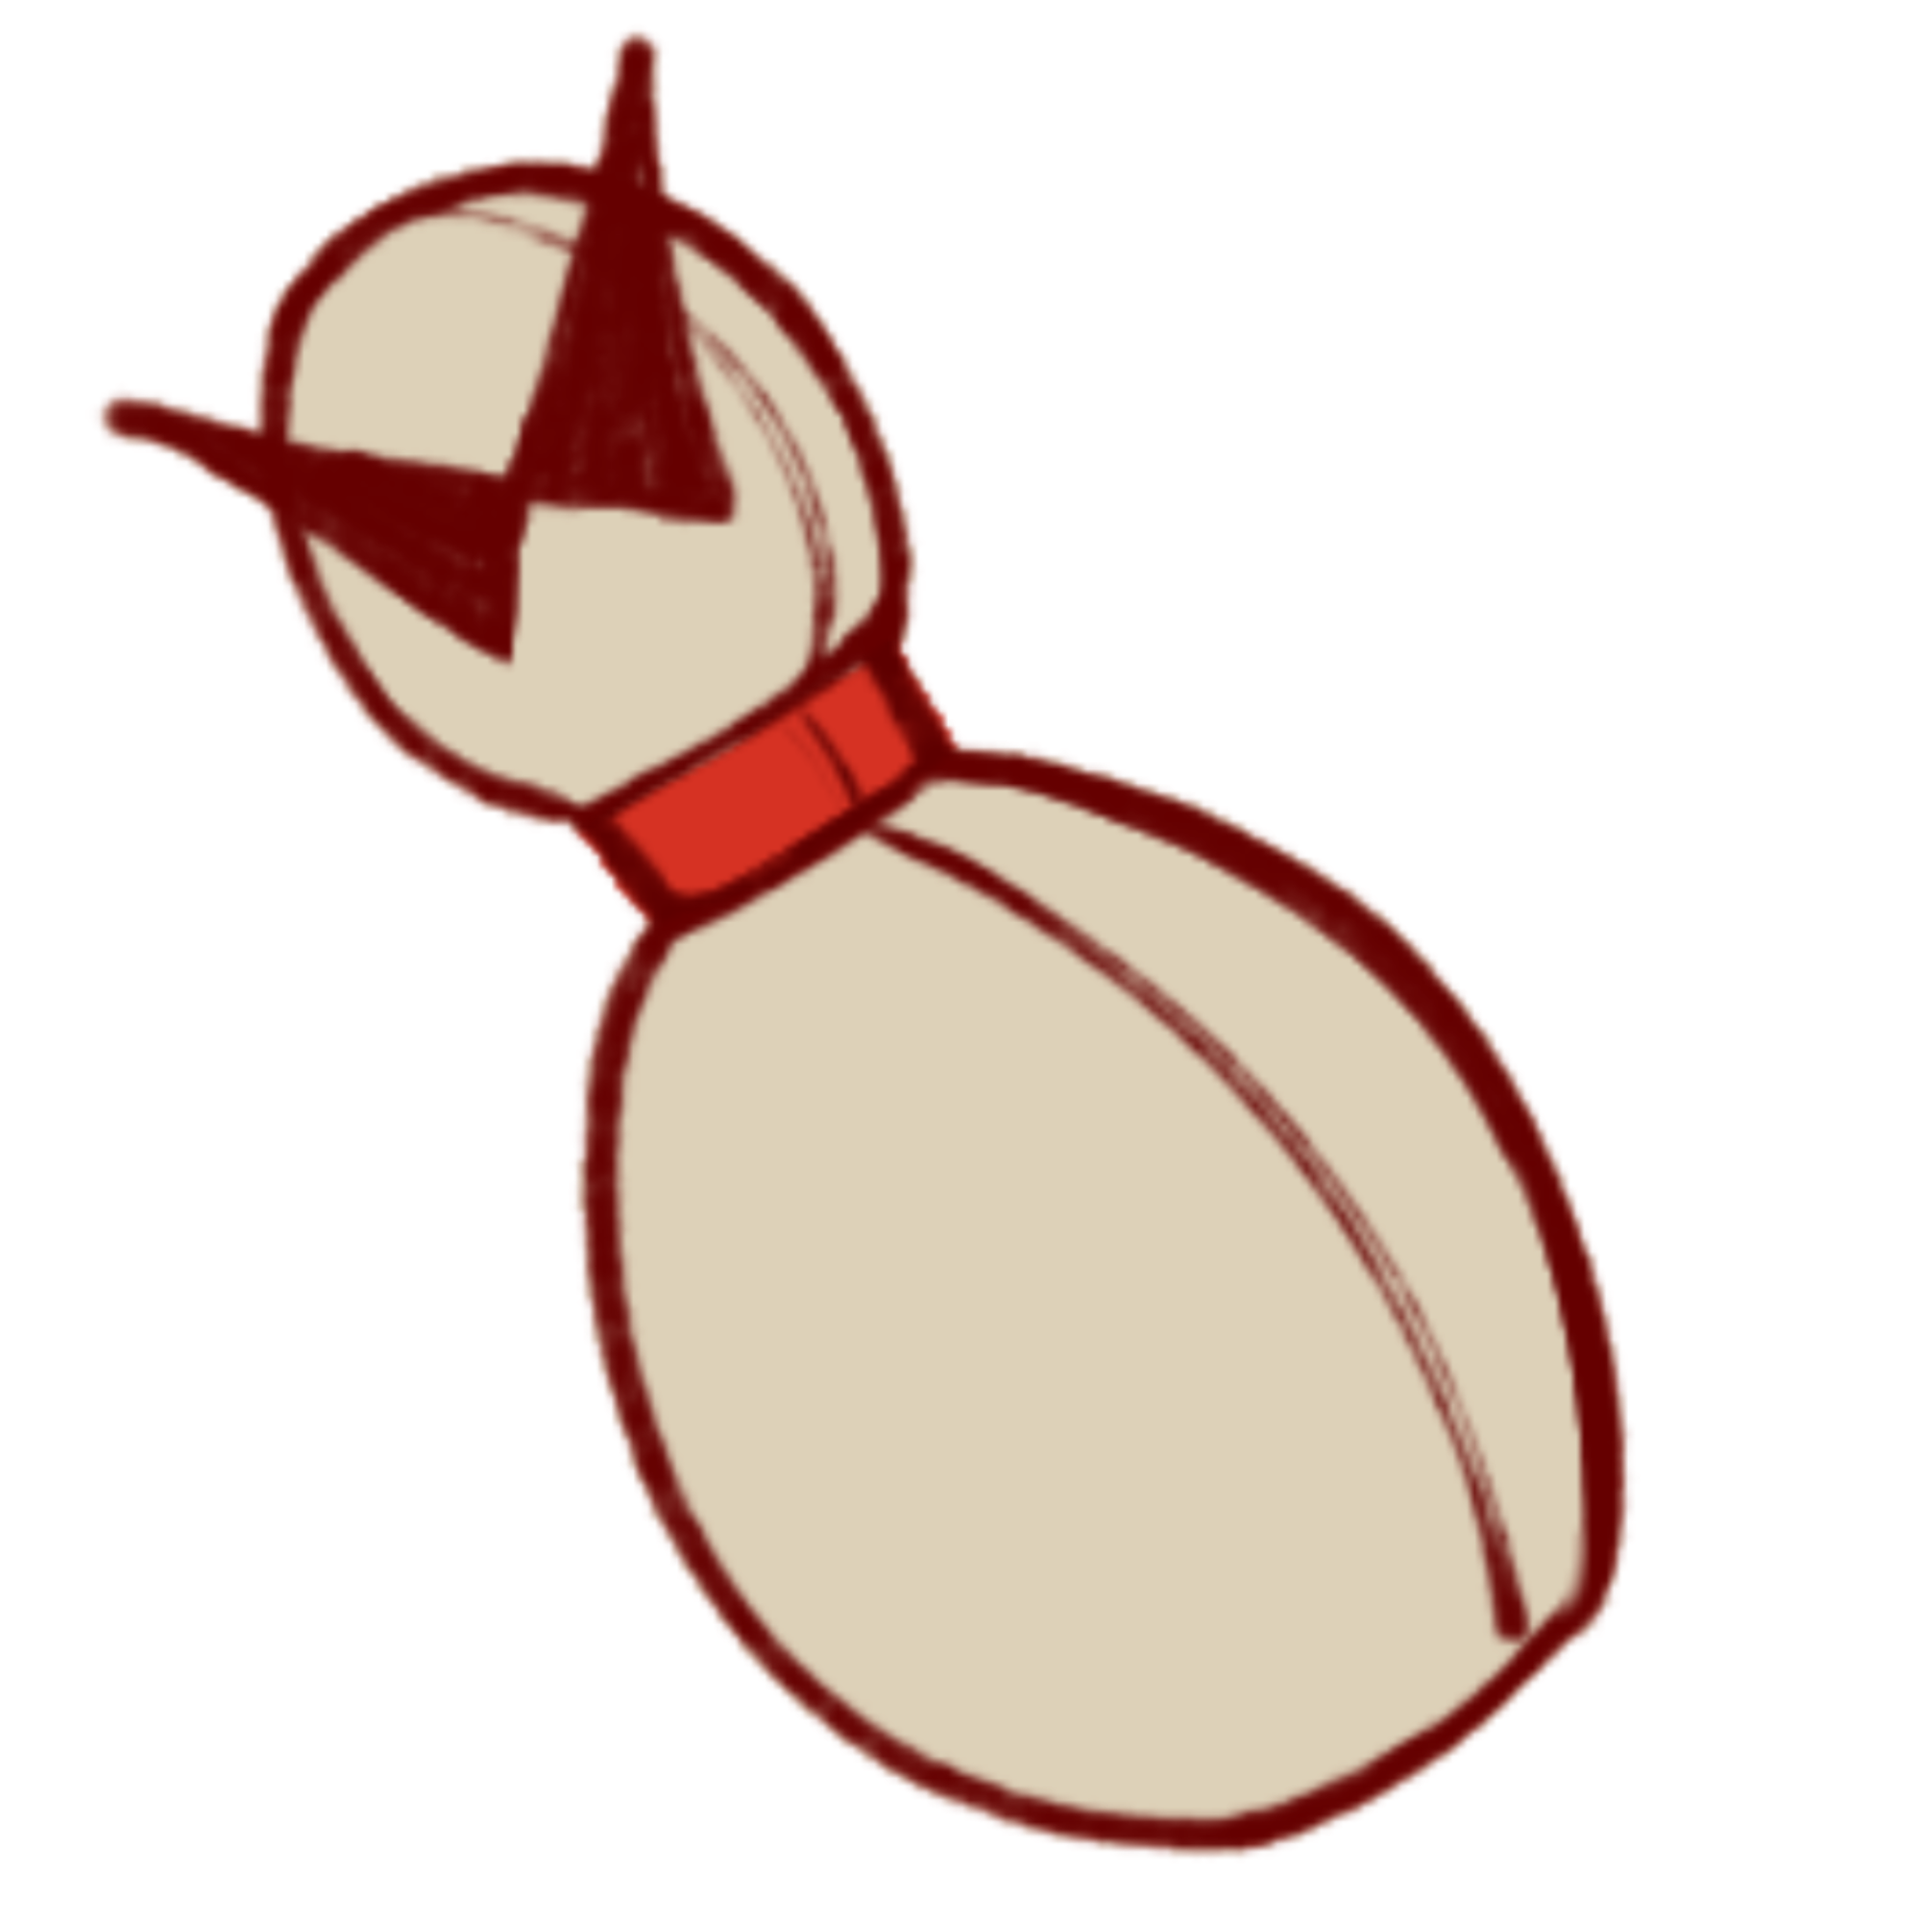
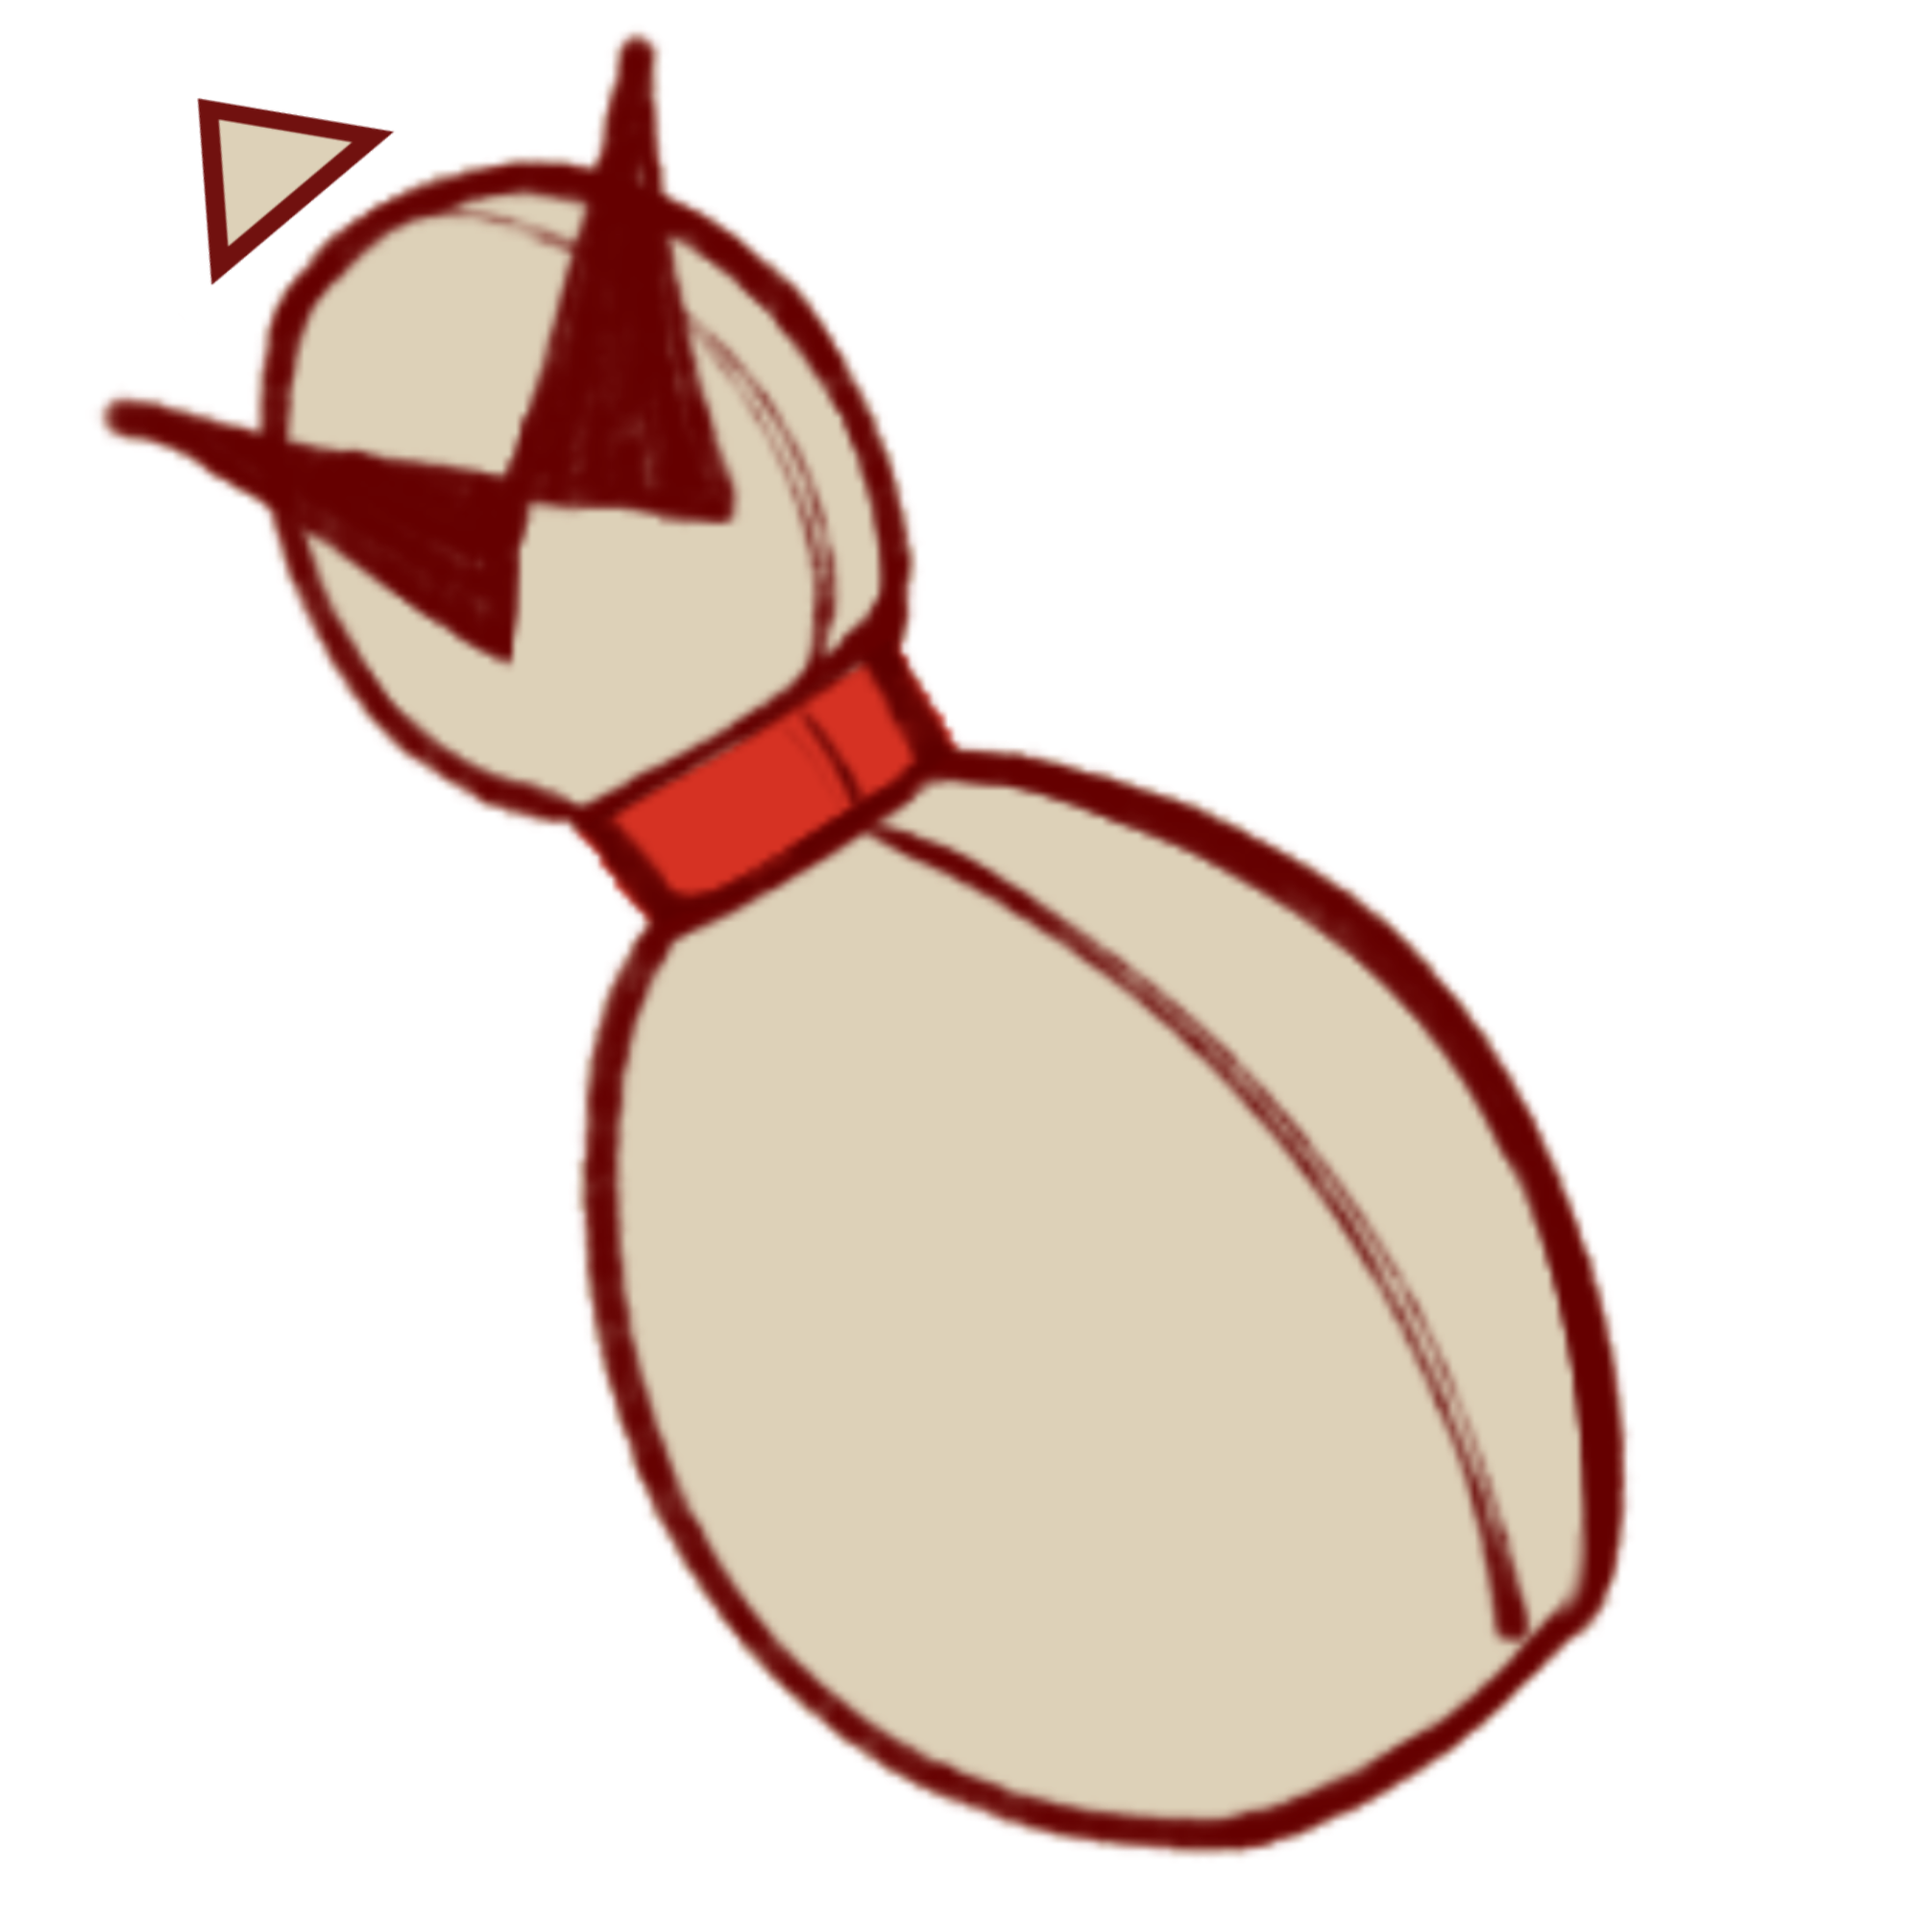
Añadir imagenes

Changed region(s): [[0.093, 0.031, 0.217, 0.155]]

diff --git a/Bowling-Frenzy/Assets/Scripts/UI/Eneko/UIGameplay.cs b/Bowling-Frenzy/Assets/Scripts/UI/Eneko/UIGameplay.cs
@@ -22,6 +22,17 @@ public class UIGameplay : MonoBehaviour
     [SerializeField] private Button mainMenuButton;
     [SerializeField] private Button quitButton;
 
+    [Header("Iconospausa")]
+    [SerializeField] private TextMeshProUGUI ComonBall;
+    [SerializeField] private TextMeshProUGUI BurnBall;
+    [SerializeField] private GameObject BlackBB;
+    [SerializeField] private TextMeshProUGUI FreezeBall;
+    [SerializeField] private GameObject BlackFB;
+    [SerializeField] private TextMeshProUGUI DrillBall;
+    [SerializeField] private GameObject BlackDB;
+    [SerializeField] private TextMeshProUGUI Defense;
+    [SerializeField] private TextMeshProUGUI Speed;
+
     internal bool isPaused = false;
     internal bool isUpgradeMenuOpen = false;
 
